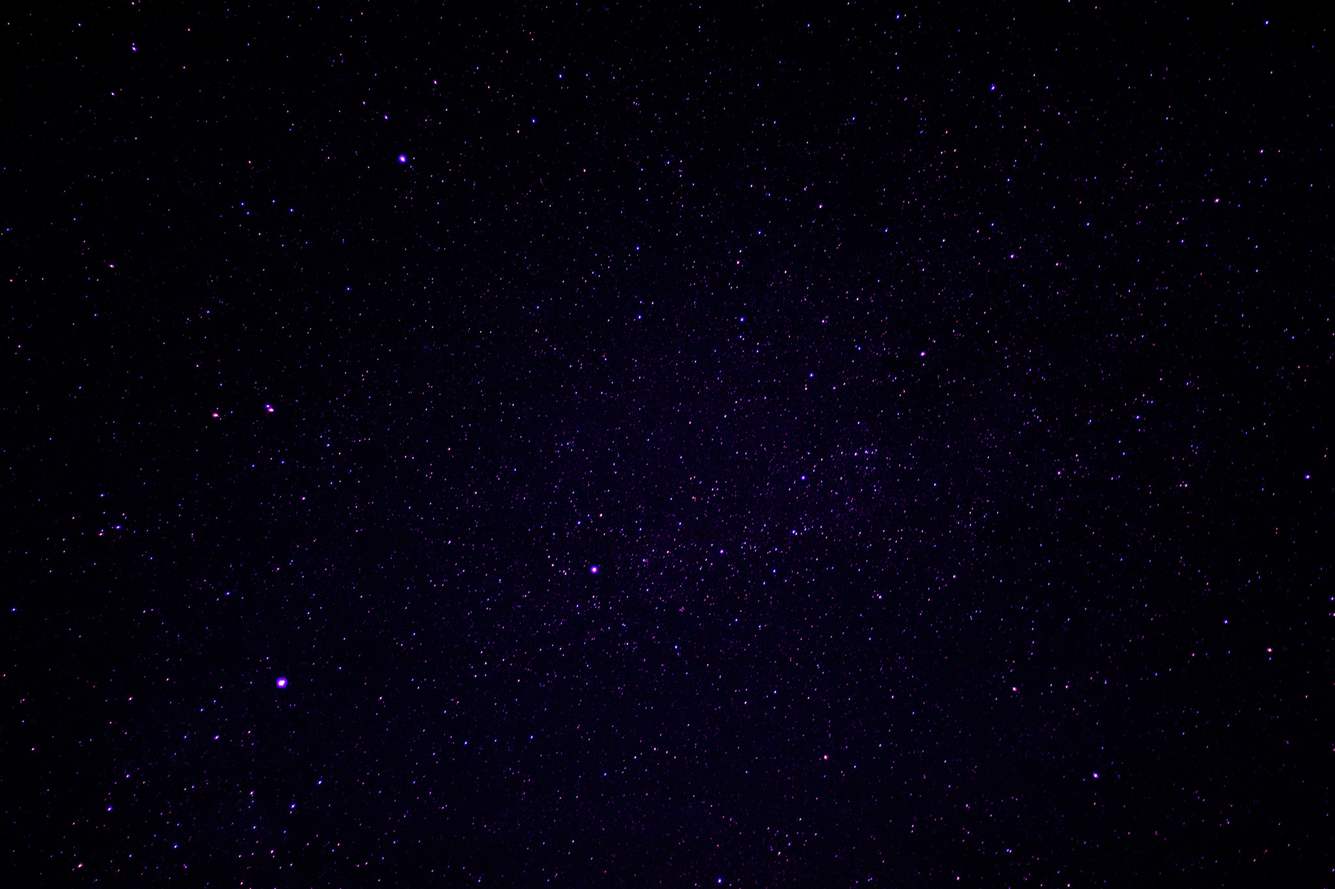
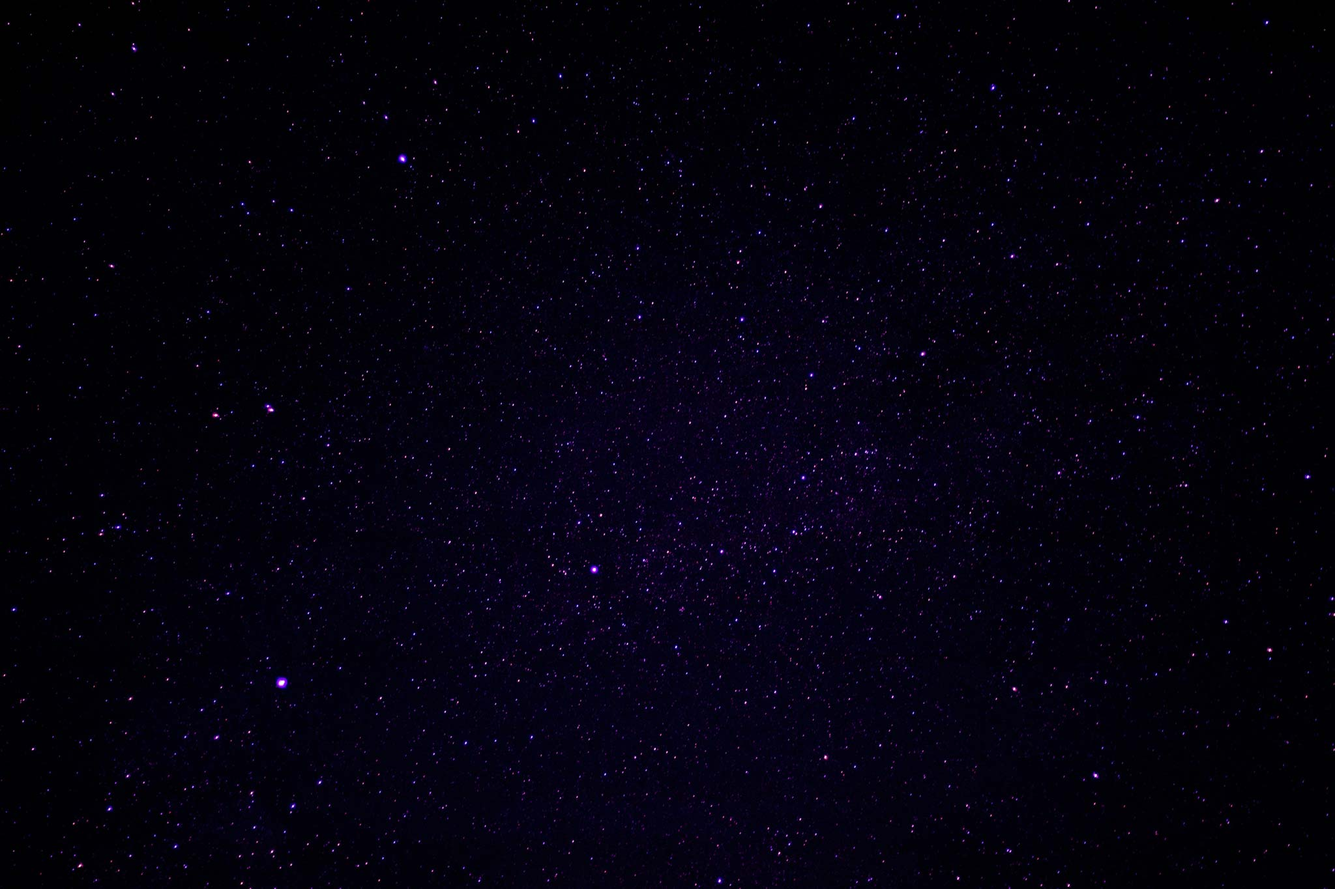
BG colour in Home page

diff --git a/index.html b/index.html
@@ -28,7 +28,7 @@
   <link rel="stylesheet" type="text/css" href="js/fullPage/jquery.fullPage.css" />
 </head>
 
-<body>
+<body bgcolor='black'>
   {% assign items = site.sections %}
   
   <input type="checkbox" id="showmenu" />
